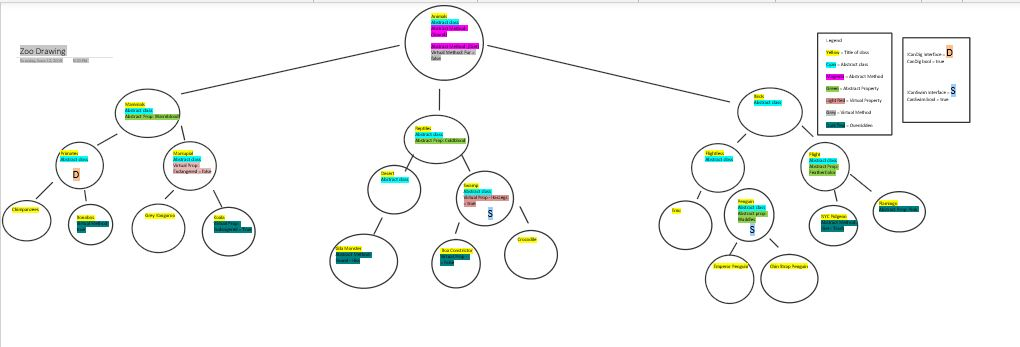
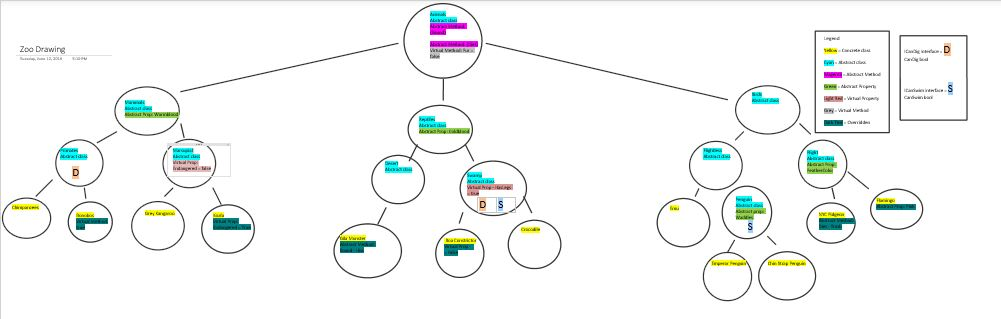
Scaffolded Readme. Redid the diagram images to be more correct

diff --git a/README.md b/README.md
@@ -1,20 +1,53 @@
 1. Name 
 #Lab 05 I Built a Zoo!
 
-2. One-Liner
-This is a C# Console Application acting as an organizer for zoo.
+2. Questions to Answer
 
-3. Usage
+#Lab Part 1 of 2
+1. An introduction to the project:
+A one-Liner - This is a C# Console application acting as an organizer for a zoo, consisting of classes and interfaces.
 
-a. First install appropriate programs. Refer to Step 5 in this README.
-b. Upon start up, a prompt will show up stating Player one should input their name.
-c. After player one inputs name, player two will be prompted to input their name. Each will have set markers, X and O.
-d. Then the numbered Game board will be presented for the first player. Once they input a number, the board will fill in with the first player's marker and the player will then be switched to the second. This will go on until a winner is declared or 9 turns have passed.
-e. Winner will be declared if three in a row have been matched to the hard-coded array. If not, a tie will be declared instead if none matched.
-f. Console will shut off once either condition is passed.
+2. Your digital drawing of your zoo
+Please refer to the visual below.
+
+3. Create your own technical documentation. 
+Breakdown and define each of the OOP principles in your own words. 
+Provide under each OOP definition a couple (you do not have to define all) of examples of how you are applying this into your project
+	
+	a. Inheritance - 
+	
+	Ex: 
+	
+	b. Abstraction - 
+	
+	Ex: 
+	
+	c. Polymorphism - 
+
+	Ex: 
+	
+	d. Encapsulation - 
+
+	Ex: 
+
+#Lab Part 2 of 2
+1. Define what an interface is in your own words.
+
+
+2. Describe what your interfaces are, where are they being implemented, and why.
+
+
+2a. Provide Examples.
+
+
+3. Updated diagram with your interfaces mapped out.
+Please refer to the visual below.
 
 Visual
-![Image](asset/TicTacToeImage.JPG)
+![Image](assets/Zoo1.JPG)
+![Image](assets/Zoo2.JPG)
+![Image](assets/Zoo3.JPG)
+![Image](assets/Zoo4.JPG)
 
 4. API
 No API's were harmed in the making of this.
